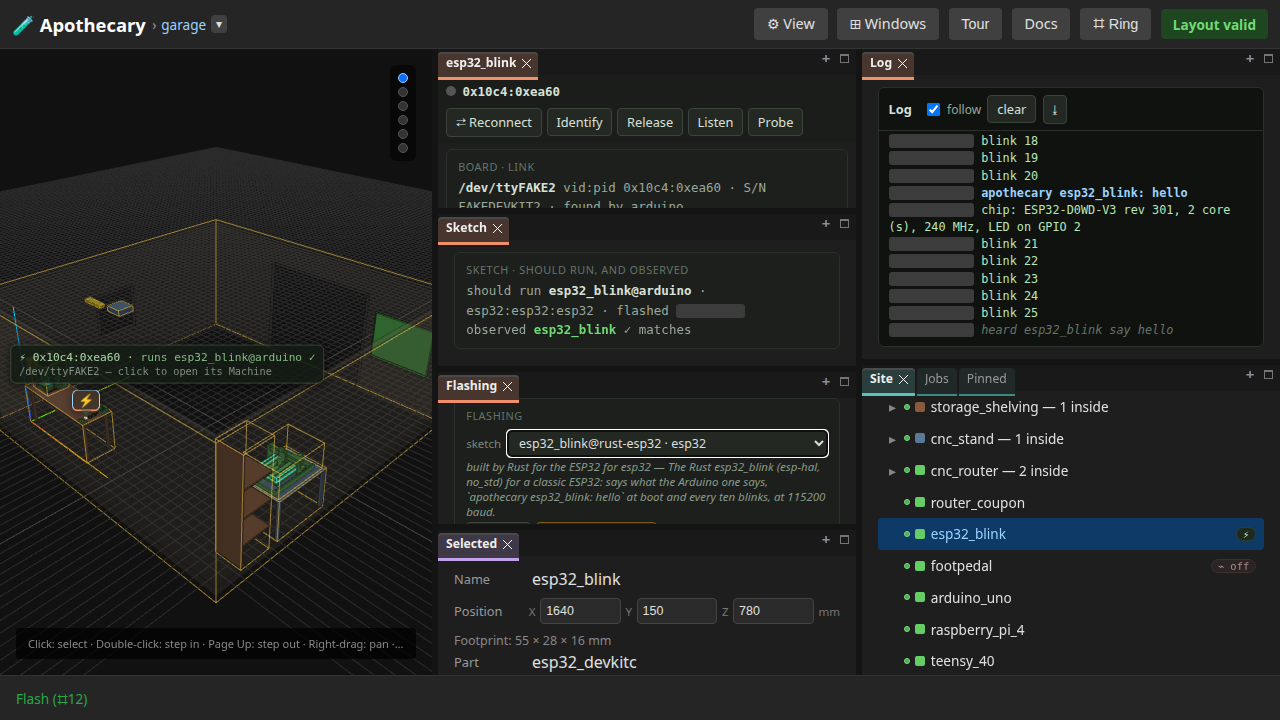
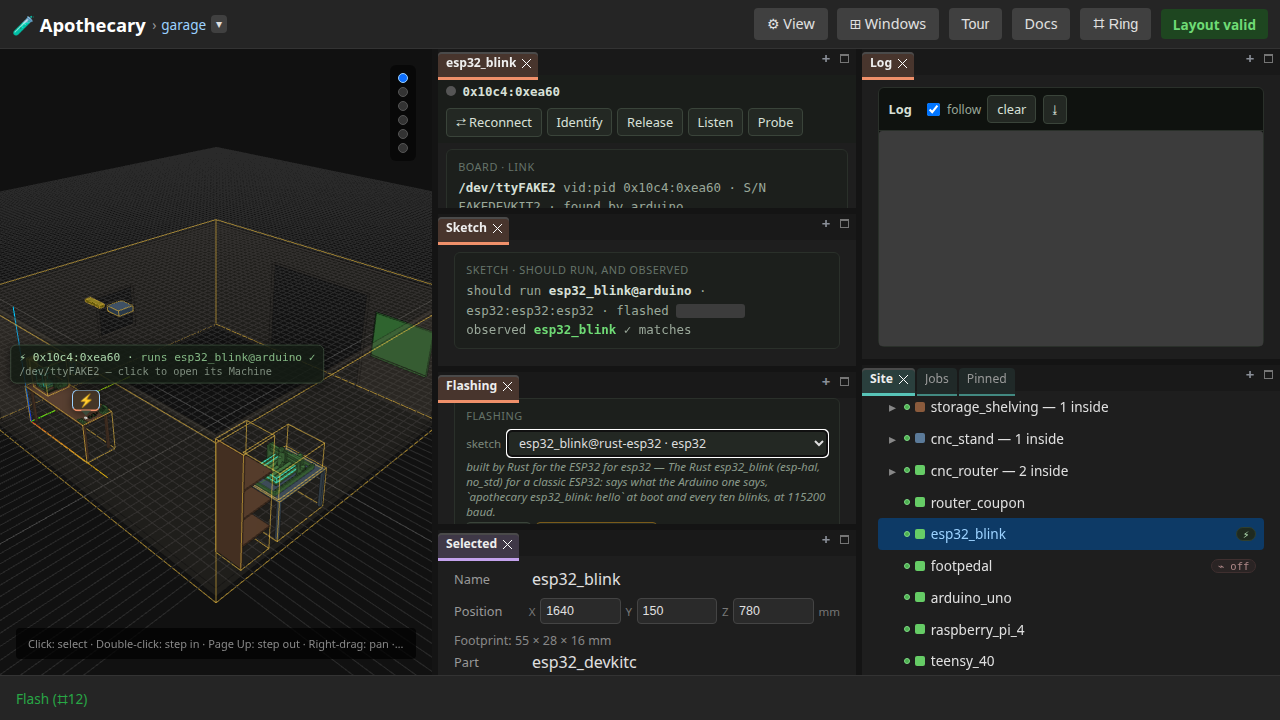
The firmware page's pictures are still: the device log is blanked whole and the board's badges while it is flashed
05-04, 05-05 and 05-07 pictured the Machine's log, which scrolls as the
simulated devkit blinks: the lines the window held, and where the hello fell among
them, were the moment's (blink 18..25 in one run, 58.. in another). The
log is blanked whole, as the router's already is. 05-07 also moved with the
pulse of the board's badge in the world and on Site's row while it is
flashed, which are blanked for that picture. Run twice with the chain, the second
run rewrote no picture of page 05.

Tools: Claude Code

Changed region(s): [[0.6875, 0.1833, 1.0, 0.4889]]

diff --git a/tests/e2e/test_the_firmware_loop.py b/tests/e2e/test_the_firmware_loop.py
@@ -82,13 +82,19 @@ def rust_only_url(start_server, tmp_path_factory):
 CHANGING = (
     ".task-log",
     ".task-history .meta",
-    "#log .t",
+    # The device log scrolls as the board blinks: which lines the window holds is the moment's.
+    "#log",
     # When the board was flashed, a grey of one width whatever the time.
     *all_words("#c-sketch .when"),
     ".tc-status",
     # The stand-in tools' folders, which the toolchains' cards name.
     (".tc-module .kv", FOLDER),
 )
+
+
+# The board's badge in the world and on Site's row pulse while it is flashed: lit or not
+# as the moment falls.
+BOARD_BADGES = (".world-badge", ".contents-item .dev-badge")
 
 
 def _title(where) -> str:
@@ -370,7 +376,7 @@ def test_the_firmware_loop_goes_round_with_arduino_then_rust(page: Page, url: st
         + _lines(sketch, "should run", "observed").replace(
             sketch.locator(".when").inner_text(), "…"
         ),
-        blank=CHANGING,
+        blank=(*CHANGING, *BOARD_BADGES),
     )
 
     # 9. Listen: the hello on the wire.
